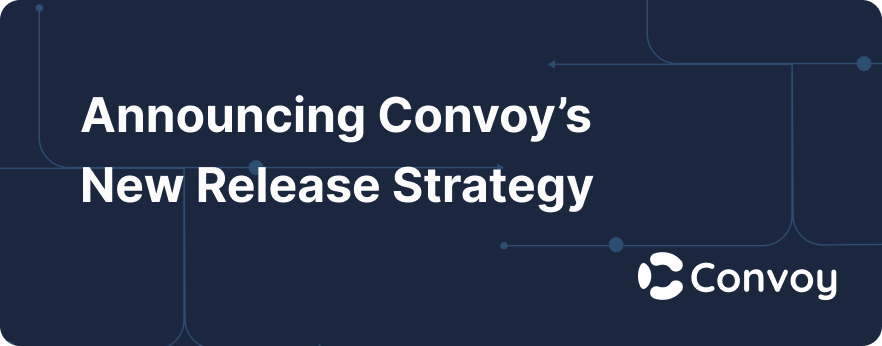
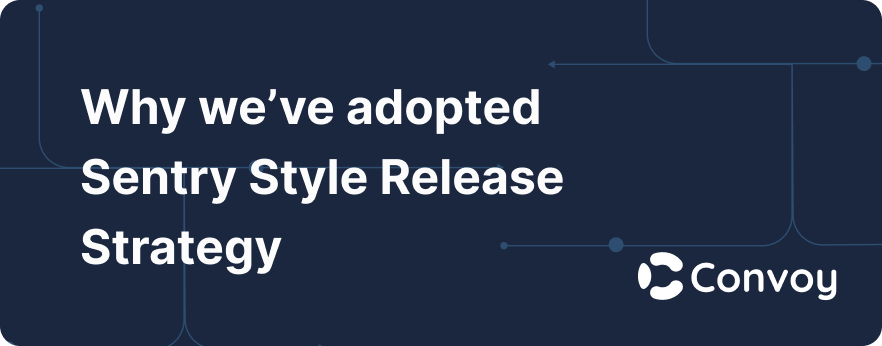
fix: updated title & post image

Changed region(s): [[0.0918, 0.4624, 0.6735, 0.6358], [0.0918, 0.2601, 0.6735, 0.4046], [0.0918, 0.6647, 0.3367, 0.8092]]

diff --git a/content/blog/why-we-are-moving-to-sentry-style-releases.md b/content/blog/why-we-are-moving-to-sentry-style-releases.md
@@ -1,5 +1,5 @@
 ---
-title: Why we're moving away from Prometheus Style Release Strategy to Sentry Style Release Strategy
+title: Why we’ve adopted Sentry Style Release Strategy
 feature_image: sentry-release-strategy.png
 post_image: sentry-release-strategy.png
 primary_author:
